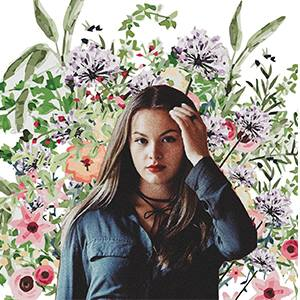
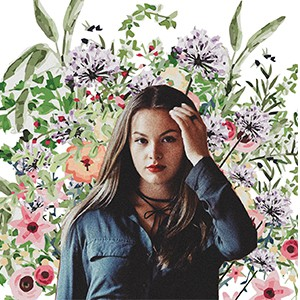
pictures

diff --git a/about.html b/about.html
@@ -51,7 +51,7 @@ Although Copenhagen is a wonderful place itself, with a lot of parks, lakes and 
    <main class="main-about">
    <article>
    <h2 class="profile-name"> Renate </h2>
-   <img class="profile" src="images/renate.png">
+   <img class="profile" src="images/renate.jpg">
    <p> 24 year old <br> Latvian </p>
    <h3> Favorite Wonder</h3>
    <p> Manbuild: Machu Picchu <br>
@@ -60,7 +60,7 @@ Although Copenhagen is a wonderful place itself, with a lot of parks, lakes and 
 
     <article>
    <h2 class="profile-name"> Tabea </h2>
-    <img class="profile" src="images/tabea.png">
+    <img class="profile" src="images/tabea.jpg">
    <p> 23 year old <br> German </p>
       <h3> Favorite Wonder</h3>
    <p> Manbuild: Angkor Wat <br>
@@ -69,7 +69,7 @@ Although Copenhagen is a wonderful place itself, with a lot of parks, lakes and 
 
     <article>
    <h2 class="profile-name"> Ruta </h2>
-    <img class="profile" src="images/ruta.png">
+    <img class="profile" src="images/ruta.jpg">
    <p> 21 year old <br> Latvian </p>
       <h3> Favorite Wonder</h3>
    <p> Manbuild: Taj Mahal <br>
